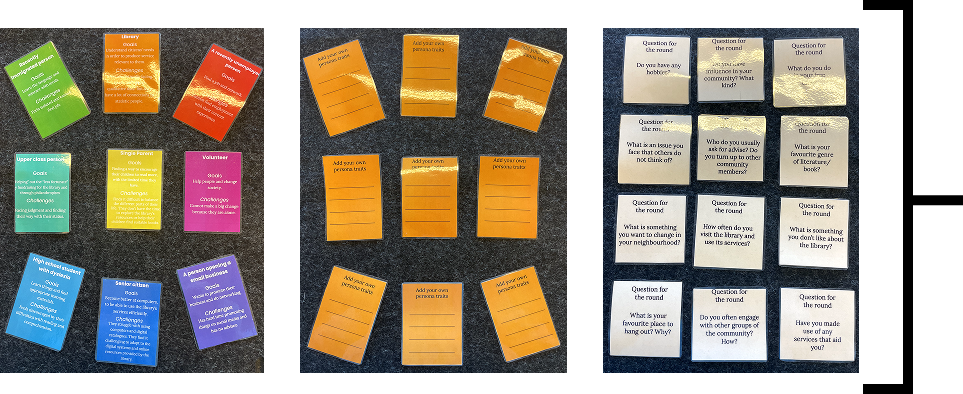
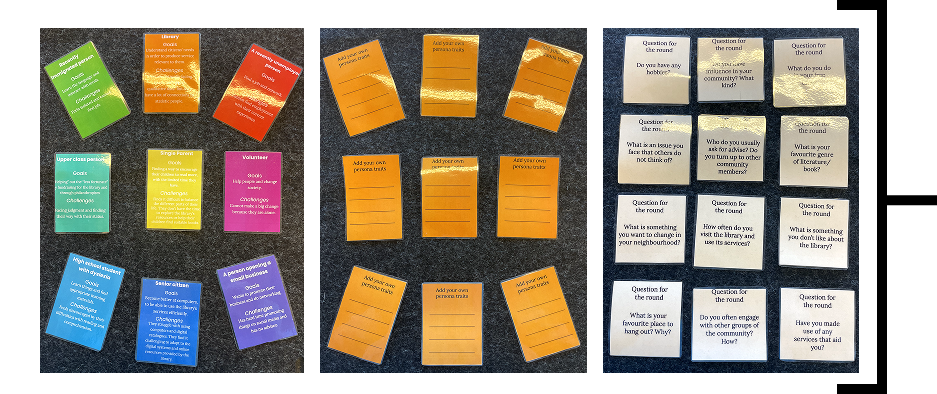
Minor update, that made me hate grid system here. Next time remeber to never have any uniquely shaped images because it will cause problems. The html library page now uses aboslute positioning for its project content. Although a sin it is the only way to organize the gird in such a way. The mapping 

diff --git a/Mapping.html b/Mapping.html
@@ -80,47 +80,52 @@
                             Ut hendrerit semper vel class aptent taciti sociosqu. Ad litora torquent per conubia nostra inceptos himenaeos.
                         </h3>
                     </div>
-                    <div class="content-grid">
-                        <img class="map-img1 desktop-only" src="Images-for-web/Project_Page_Images/Map_Img_1.png" alt="">
-                        <img class="map-img2 desktop-only" src="Images-for-web/Project_Page_Images/Map_Img_2.png" alt="">
-                        <img class="map-img3 desktop-only" src="Images-for-web/Project_Page_Images/Map_Img_3.png" alt="">
-
-                        <img class="map-img1 mobile-only" src="Images-for-web/Mobile_Project_Page_Images/Map_Img_1.png" alt="">
-                        <img class="map-img2 mobile-only" src="Images-for-web/Mobile_Project_Page_Images/Map_Img_2.png" alt="">
-                        <img class="map-img3 mobile-only" src="Images-for-web/Mobile_Project_Page_Images/Map_Img_3.png" alt="">
-
-                        <div class="content-box1">
-                            <h4 class="content-title">Elevation Map</h4>
-                            <p class="content-text">Sit amet consectetur adipiscing elit. 
-                                Quisque faucibus ex sapien vitae pellentesque sem placerat. 
-                                In id cursus mi pretium tellus duis convallis. Tempus leo eu aenean sed diam urna tempor.</p>
+                    <d<div class="content-grid">
+ 
+                        <div class="map-row">
+                            <div class="map-row-img">
+                                <img class="desktop-only" src="Images-for-web/Project_Page_Images/Map_Img_1.png" alt="">
+                                <img class="mobile-only" src="Images-for-web/Mobile_Project_Page_Images/Map_Img_1.png" alt="">
+                            </div>
+                            <div class="map-row-text">
+                                <div class="content-box1">
+                                    <h4 class="content-title">Elevation Map</h4>
+                                    <p class="content-text">Sit amet consectetur adipiscing elit. Quisque faucibus ex sapien vitae pellentesque sem placerat. In id cursus mi pretium tellus duis convallis. Tempus leo eu aenean sed diam urna tempor.</p>
+                                </div>
+                                <div class="content-box2">
+                                    <h4 class="content-title">Nature Reserves Per Area</h4>
+                                    <p class="content-text">Lorem ipsum dolor sit amet consectetur adipiscing elit. Quisque faucibus ex sapien vitae pellentesque sem placerat. In id cursus mi pretium tellus duis convallis. Tempus leo eu aenean sed diam urna tempor. Pulvinar vivamus fringilla lacus nec metus bibendum egestas. Iaculis massa nisl malesuada lacinia integer nunc posuere. Ut hendrerit semper vel class aptent taciti sociosqu. Ad litora torquent per conubia nostra inceptos himenaeos.</p>
+                                </div>
+                            </div>
                         </div>
-                        <div class="content-box2">
-                            <h4 class="content-title">Nature Reserves Per Area</h4>
-                            <p class="content-text">Lorem ipsum dolor sit amet consectetur adipiscing elit. Quisque faucibus ex sapien vitae pellentesque sem placerat. 
-                                In id cursus mi pretium tellus duis convallis. Tempus leo eu aenean sed diam urna tempor. 
-                                Pulvinar vivamus fringilla lacus nec metus bibendum egestas. Iaculis massa nisl malesuada lacinia integer nunc posuere. Ut hendrerit semper vel class aptent taciti sociosqu. 
-                                Ad litora torquent per conubia nostra inceptos himenaeos.
-                            </p>
+ 
+                        <div class="map-row">
+                            <div class="map-row-img">
+                                <img class="desktop-only" src="Images-for-web/Project_Page_Images/Map_Img_2.png" alt="">
+                                <img class="mobile-only" src="Images-for-web/Mobile_Project_Page_Images/Map_Img_2.png" alt="">
+                            </div>
+                            <div class="map-row-text">
+                                <div class="content-box3">
+                                    <h4 class="content-title">Plant Health Via Satellite Imagery</h4>
+                                    <p class="content-text">Lorem ipsum dolor sit amet consectetur adipiscing elit. Quisque faucibus ex sapien vitae pellentesque sem placerat. In id cursus mi pretium tellus duis convallis. Tempus leo eu aenean sed diam urna tempor. Lorem ipsum dolor sit amet consectetur adipiscing elit. Quisque faucibus ex sapien vitae pellentesque sem placerat. In id cursus mi pretium tellus duis convallis. Tempus leo eu aenean sed diam urna tempor.</p>
+                                </div>
+                            </div>
                         </div>
-                        <div class="content-box3">
-                            <h4 class="content-title">Plant Health Via Satellite Imagery</h4>
-                            <p class="content-text">Lorem ipsum dolor sit amet consectetur adipiscing elit. Quisque faucibus ex sapien vitae pellentesque sem placerat. 
-                                In id cursus mi pretium tellus duis convallis. Tempus leo eu aenean sed diam urna tempor. Lorem ipsum dolor sit amet consectetur adipiscing elit. 
-                                Quisque faucibus ex sapien vitae pellentesque sem placerat. In id cursus mi pretium tellus duis convallis. 
-                                Tempus leo eu aenean sed diam urna tempor.
-                            </p>
+ 
+                        <div class="map-row">
+                            <div class="map-row-img">
+                                <img class="desktop-only" src="Images-for-web/Project_Page_Images/Map_Img_3.png" alt="">
+                                <img class="mobile-only" src="Images-for-web/Mobile_Project_Page_Images/Map_Img_3.png" alt="">
+                            </div>
+                            <div class="map-row-text">
+                                <div class="content-box4">
+                                    <h4 class="content-title">Soil Type</h4>
+                                    <p class="content-text">Lorem ipsum dolor sit amet consectetur adipiscing elit. Quisque faucibus ex sapien vitae pellentesque sem placerat. In id cursus mi pretium tellus duis convallis. Tempus leo eu aenean sed diam urna tempor. Lorem ipsum dolor sit amet consectetur adipiscing elit. Quisque faucibus ex sapien vitae pellentesque sem placerat. In id cursus mi pretium tellus duis convallis. Tempus leo eu aenean sed diam urna tempor.</p>
+                                </div>
+                            </div>
                         </div>
-                        <div class="content-box4">
-                            <h4 class="content-title">Soil Type</h4>
-                            <p class="content-text">Lorem ipsum dolor sit amet consectetur adipiscing elit. Quisque faucibus ex sapien vitae pellentesque sem placerat. 
-                                In id cursus mi pretium tellus duis convallis. Tempus leo eu aenean sed diam urna tempor. 
-                                Lorem ipsum dolor sit amet consectetur adipiscing elit. Quisque faucibus ex sapien vitae pellentesque sem placerat. 
-                                In id cursus mi pretium tellus duis convallis. 
-                                Tempus leo eu aenean sed diam urna tempor.
-                            </p>
-                        </div>
-                    </div>
+ 
+               
                     
                 </div>
 

diff --git a/project.css b/project.css
@@ -242,47 +242,125 @@
 .content-box6 { grid-area: box6; }
 
 /* ==========================
-   Gird for Mapping html
+   Grid for Mapping html
    ========================== */
 
 .content-grid {
-    display: grid;
-    grid-template-columns: 1fr 1fr; 
-    grid-template-areas: 
-        "img1 box1"
-        "img1 box2"
-        "img2 box3"
-        "img3 box4";
-    gap: 2rem;
+    display: flex;
+    flex-direction: column;
+    gap: 3rem;
     width: 100%;
     margin-top: 3rem;
 }
 
-.map-img1 { grid-area: img1; width: 100%; height: auto; }
-.map-img2 { grid-area: img2; width: 100%; height: auto; }
-.map-img3 { grid-area: img3; width: 100%; height: auto; }
+.map-row {
+    display: flex;
+    flex-direction: row;
+    align-items: center;
+    gap: 2rem;
+    width: 100%;
+}
+
+.map-row-img {
+    flex: 1.2;
+    min-width: 0;
+}
+
+.map-row-img img {
+    width: 100%;
+    height: auto;
+    display: block;
+}
+
+.map-row-text {
+    flex: 1;
+    min-width: 0;
+    display: flex;
+    flex-direction: column;
+    gap: 2rem;
+}
 
 /* ==========================
-   Gird for Malmo_Lib html
+   Grid for Malmo_Lib html — Absolute positioning - This is cringe but the grid sucks, and I am not dealing with it anymore
    ========================== */
-   .content-grid2 {
-    display: grid;
-    grid-template-columns: 2fr 2fr 2fr 2fr 3fr;
-    grid-template-areas:
-        "img1  img1  img1  img1  box1"
-        "img1  img1  img1  img1  box2"
-        "box5  box5  img3  img3  box3"
-        "img2  img2  img3  img3  box3"
-        "img4  img4  img4  img4  box4";
-    gap: 2rem;
-    align-items: start;
+
+.content-grid2 {
+    position: relative;
     width: 100%;
+    height: 1100px;
     margin-top: 3rem;
 }
-.lib-img1 { grid-area: img1; width: 100%; }
-.lib-img2 { grid-area: img2; width: 100%; }
-.lib-img3 { grid-area: img3; width: 100%; }
-.lib-img4 { grid-area: img4; width: 100%; }
+
+.lib-img1 {
+    position: absolute;
+    top: 0;
+    left: 0;
+    width: 62%;
+    height: auto;
+    display: block;
+}
+
+.content-grid2 .content-box1 {
+    position: absolute;
+    top: 0;
+    left: 64%;
+    width: 34%;
+}
+
+.content-grid2 .content-box2 {
+    position: absolute;
+    top: 170px;
+    left: 64%;
+    width: 34%;
+}
+
+.content-grid2 .content-box5 {
+    position: absolute;
+    top: 280px;
+    left: -30px;
+    width: 30%;
+}
+
+.lib-img2 {
+    position: absolute;
+    top: 430px;
+    left: -30px;
+    width: 30%;
+    height: auto;
+    display: block;
+}
+
+.lib-img3 {
+    position: absolute;
+    top: 465px;
+    left: 26.5%;
+    width: 35%;
+    height: auto;
+    display: block;
+}
+
+.content-grid2 .content-box3 {
+    position: absolute;
+    top: 490px;
+    left: 64%;
+    width: 34%;
+}
+
+.lib-img4 {
+    position: absolute;
+    top: 800px;
+    left: -78px;
+    width: 70%;
+    height: auto;
+    display: block;
+}
+
+.content-grid2 .content-box4 {
+    position: absolute;
+    top: 800px;
+    left: 64%;
+    width: 34%;
+}
  
  
 /* ==========================
@@ -429,7 +507,7 @@
 }
 
 /* ==========================================================
-   RESPONSIVE DESIGN (created by AI Gemini) \/ \/ \/ With some touches with the grid and the background frame.
+   RESPONSIVE DESIGN
    ========================================================== */
 
 /* 1. Large Screens: Constrain the background frame */
@@ -445,6 +523,14 @@
 
     .project-frame {
         padding-bottom: 2rem;
+    }
+
+    .lib-img4 {
+        left: -50px;
+    }
+
+    .content-grid2 .content-box5 {
+        top: 225px;
     }
 
     .objective-container, 
@@ -555,22 +641,51 @@
         display: flex;
         flex-direction: column;
         gap: 1.5rem;
+        height: auto !important;
     }
 
     /* ==========================
    The mobile only is critical to this working, it affects the type of display image involved.
    ========================== */
 
-   .content-grid {
-    .map-img1 { order: 1; }
-    .content-box1 { order: 2; }
-    .content-box2 { order: 3; } /* Box 2 follows Box 1 in your desktop grid */
-    .map-img2 { order: 4; }
-    .content-box3 { order: 5; }
-    .map-img3 { order: 6; }
-    .content-box4 { order: 7; }
+  /* ==========================
+    Mapping mobile CSS
+   ========================== */
+
+    .content-grid {
+        flex-direction: column;
+    }
+
+    .map-row {
+        flex-direction: column;
+    }
+
+    .map-row-img,
+    .map-row-text {
+        width: 100%;
+        flex: none;
     }
     
+ /* ==========================
+    Library mobile CSS
+   ========================== */
+
+    .content-grid2 .lib-img1,
+    .content-grid2 .lib-img2,
+    .content-grid2 .lib-img3,
+    .content-grid2 .lib-img4,
+    .content-grid2 .content-box1,
+    .content-grid2 .content-box2,
+    .content-grid2 .content-box3,
+    .content-grid2 .content-box4,
+    .content-grid2 .content-box5 {
+        position: relative !important;
+        top: auto !important;
+        left: auto !important;
+        width: 100% !important;
+        height: auto !important;
+    }
+
     .content-grid2 {
     .lib-img1 { order: 1; }
     .content-box1 { order: 2; }
@@ -582,6 +697,11 @@
     .lib-img4 { order: 8; }
     .content-box4 { order: 9; }
     }
+
+    
+ /* ==========================
+    Kinesthetics mobile CSS
+   ========================== */
 
     .content-grid3 {
     .Kine-img1 { order: 1; }
@@ -598,6 +718,10 @@
     .Kine-img6 { order: 12; }
     }
 
+ /* ==========================
+    AI mobile CSS
+   ========================== */
+
     .content-grid4 {
     .AI-img1 { order: 1; }
     .content-box1 { order: 2; }
@@ -608,6 +732,11 @@
     .AI-img4 { order: 7; }
     .content-box4 { order: 8; }
     }
+
+
+     /* ==========================
+    Outcome mobile CSS
+   ========================== */
 
     .outcome-frame {
         flex-direction: column !important;
